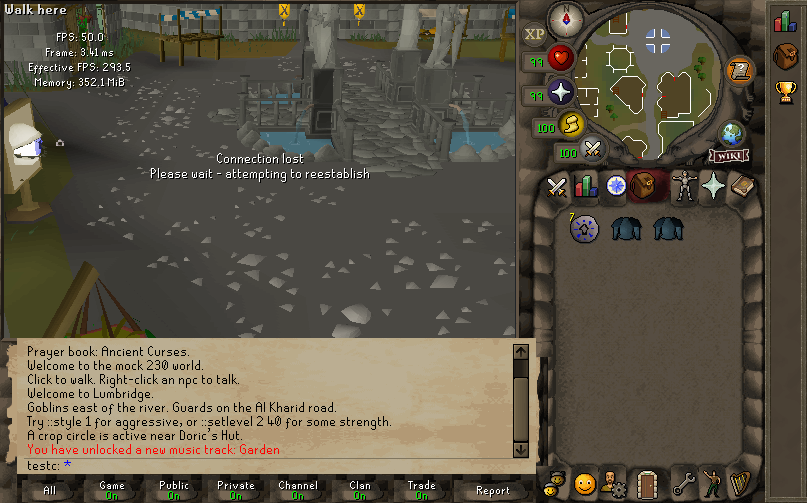
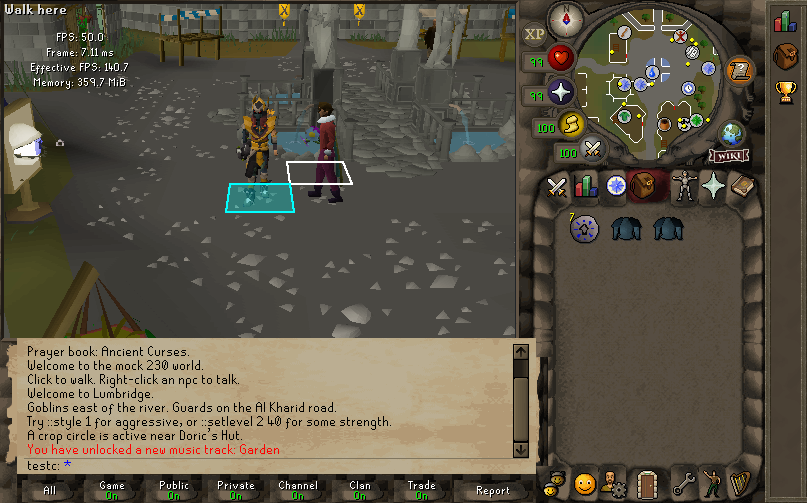
shots: the parked pointer stopped costing a session, and a stale pick
Four of the tile indicator's pictures showed markers that were not there,
and none of it was the plugin: tileind.c passes the snapshot straight
through and its own suite has always been green. Both halves were one
block in main.c -- the four extra "interact" frames TORIRS_SIM_HOVER runs
after the main loop has stopped.

The clock. Those frames were stamped 20/40/60/80 ms, absolute, counted
from zero. After a run of any length that is the clock jumping BACKWARDS
by the whole session, so `seen->now_ms - watch->last_recv_ms` wrapped
unsigned inside NetLinkWatch_Step and the watch read the wrap as fifteen
silent seconds. It tore the session down in the last four frames of every
hover shot: "Connection lost" across the viewport, no local player, no
npcs, no minimap dots. `if(!api->world.local_player(...)) return;` then
correctly suppressed the true and destination markers, which is why
tileind-c-cs2 -- the headline photograph of the plugin the ledger calls
the yardstick -- contained 0 cyan pixels, 0 yellow, and 649 white ones
that were all the banner's own text. The frames now continue
app.last_frame_ms.

The pick. Those frames ran App_RunOnce and nothing else, and the world
pick is armed inside App_Render -- which is exactly what sim_render_frame
exists for, and every other headless sim drive already calls it. So the
pointer moved and nothing re-picked, and hover_tile went on answering
whatever the last main-loop event had left. On tileind-c-live that was
[…]

diff --git a/src/main.c b/src/main.c
@@ -3433,12 +3433,43 @@ frame_loop_teardown(void)
             char* hov_sep = NULL;
             int hov_x = (int)strtol(getenv("TORIRS_SIM_HOVER"), &hov_sep, 0);
             int hov_y = hov_sep && *hov_sep == ',' ? (int)strtol(hov_sep + 1, NULL, 0) : 0;
+            /*
+             * These frames CONTINUE the loop's clock; they do not restart it.
+             *
+             * `now_ms` is the clock the session is judged against, and it is
+             * the one App_RunOnce hands NetLinkWatch_Step. The four frames
+             * used to be stamped 20/40/60/80 -- absolute, from zero -- so
+             * after a run of any length the clock jumped BACKWARDS by the
+             * whole session, `now_ms - last_recv_ms` wrapped unsigned, and
+             * the watch read the wrap as fifteen silent seconds. It then tore
+             * the session down: "Connection lost / Please wait - attempting
+             * to reestablish" across the viewport, and with it the local
+             * player, every npc and every minimap dot. Four frames of parked
+             * pointer are not supposed to cost a session, and every shot that
+             * asked for a hover paid for one -- which is what left the tile
+             * indicator's own headline photograph with no player to mark.
+             */
+            uint64_t const hov_base_ms = app.last_frame_ms;
             for( int t = 0; t < 4; t++ )
             {
-                LibToriRS_Input_Begin(hov_input, (uint64_t)(t + 1) * 20);
+                uint64_t const hov_ms = hov_base_ms + (uint64_t)(t + 1) * 20;
+                LibToriRS_Input_Begin(hov_input, hov_ms);
                 LibToriRS_Input_PushMouseMove(hov_input, hov_x, hov_y);
                 LibToriRS_Input_End(hov_input);
-                App_RunOnce(&app, (uint64_t)(t + 1) * 20, hov_input);
+                (void)App_RunOnce(&app, hov_ms, hov_input);
+                /*
+                 * Unconditionally, and not on App_RunOnce's redraw answer:
+                 * the world PICK is armed inside App_Render, so the parked
+                 * pointer only reaches the pickset and world_hover_tile_x/z
+                 * by rendering. Without this the pointer moved and nothing
+                 * re-picked, and hover-tile consumers kept answering the tile
+                 * the last main-loop event left -- on the CS1 lane that was
+                 * the login click, a tile the ~varrock teleport had since put
+                 * under a roof. A frame that reports no redraw has still
+                 * moved the pointer, so the redraw flag is the wrong question
+                 * for these four.
+                 */
+                sim_render_frame(&app);
             }
             TORIRS_LOG(
                 "sim_hover: parked at %d,%d hover_com_id=%d\n", hov_x, hov_y, app.hover_com_id);

diff --git a/src/net/net_link_watch.h b/src/net/net_link_watch.h
@@ -82,6 +82,19 @@ struct NetLinkWatch
  *  policy; every one of these is the caller's observation of one. */
 struct NetLinkSighting
 {
+    /**
+     * Wall clock, and it MUST NOT GO BACKWARDS across calls.
+     *
+     * Every detector below is an unsigned difference from a stamp this watch
+     * took itself, so a frame stamped earlier than the last packet wraps to
+     * roughly 5.8e8 years and reads as fifteen silent seconds: the session is
+     * torn down and the only symptom is a perfectly ordinary "Connection
+     * lost". A harness that fabricates frames outside the main loop has to
+     * CONTINUE the loop's clock rather than start its own at zero -- the
+     * TORIRS_SIM_HOVER teardown in main.c started at 20 ms, and every hover
+     * screenshot ever taken lost its local player in the last four frames
+     * because of it.
+     */
     uint64_t now_ms;
     /**
      * The previous frame's whole wall duration, 0 before the first frame.

diff --git a/tools/porcelain_gate/shots/README.md b/tools/porcelain_gate/shots/README.md
@@ -222,13 +222,42 @@ the run is 700 frames after all — which is how a cannon drive scheduled at
 frame 1400 came back with no cannon fired and no error. Pass
 `TORIRS_MAX_FRAMES` in that list instead; `env` takes it last-wins.
 
-**`TORIRS_SIM_HOVER` puts "Connection lost" across the viewport.** It parks the
-pointer for four extra interact frames after the main loop has stopped, and the
-net link times out in them. Same plugin, same lane, run serially: with
-`TORIRS_SIM_HOVER` the banner is there, without it the frame is clean. It is in
-`pages/BEFORE_itemstats_hover.png` too, so it is not new and it is not load. A
-hover state that can be reached with `TORIRS_SIM_MOVE_AT` during the run should
-be, and `*-nohover-*.png` is the same plugin without it.
+**`TORIRS_SIM_HOVER` used to put "Connection lost" across the viewport, and to
+mark the wrong tile.** FIXED — both halves were one block in `main.c`, and both
+are worth knowing because the shots taken before the fix are still in git
+history and in `pages/BEFORE_itemstats_hover.png`.
+
+The banner: the four parked-pointer frames after the main loop were stamped
+20/40/60/80 ms — absolute, counted from zero. After a run of any length that is
+the clock jumping BACKWARDS by the whole session, so `now_ms - last_recv_ms`
+wrapped unsigned inside `NetLinkWatch_Step` and the watch read the wrap as
+fifteen silent seconds. It tore the session down in the last four frames of
+every hover shot: banner, no local player, no npcs, no minimap dots. That is
+what left `tileind-c-cs2` — the headline picture of the plugin the ledger calls
+the yardstick — with none of its three markers in it. The frames now continue
+the loop's clock.
+
+The wrong tile: those frames ran `App_RunOnce` and nothing else, and the world
+PICK is armed inside `App_Render`. So the pointer moved and nothing re-picked,
+and every hover-tile consumer went on answering the tile the last main-loop
+event had left — on `tileind-c-live` that was the login click, a tile the
+`~varrock` teleport had since put under a roof, 110 px from the pointer the
+shot declared. They now render, like every other headless sim frame does
+(`sim_render_frame`, and see the comment on it).
+
+`TORIRS_SIM_MOVE_AT` during the run is still the better instrument where a
+state needs many frames of hover to build, and `*-nohover-*.png` is the same
+plugin with no parked pointer at all.
+
+Every hover shot in `plugins/` was taken against the broken teardown, so every
+one of them has to be re-taken before it can be read. The tile indicator's
+eleven are done — `tileind-{c,lua}-{cs2,cs1,live}`, `tile-{c,lua}-all-{cs2,cs1}`,
+`pair-tiles`, `toggle-tile-off`, and `tileind-c-cs2-before.png` is the same
+drive on a binary built before the fix, kept as the picture of what the bug
+looked like. These SEVEN are still pre-fix and belong to their own plugins'
+owners: `itemstats-hover-cs2`, `itemstats-hover-cs1`, `itemstats-live`,
+`nxthl-hover-cs2`, `nxthl-hover-cs1`, `nxthl-tile-cs2`, `nxthl-live`. Re-taking
+one is its job row and nothing else.
 
 One correction to the openers table above: `TORIRS_SIM_CLICK_AT` is
 `frame,x,y[,right]`, frame FIRST, not `x,y,<tick>`.
